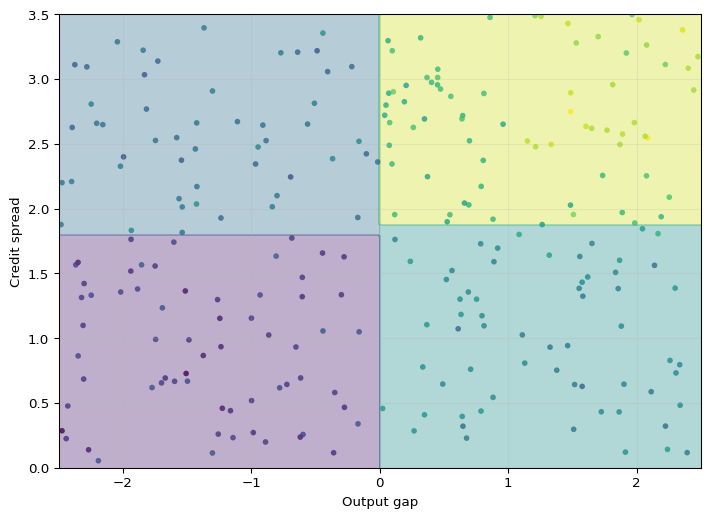
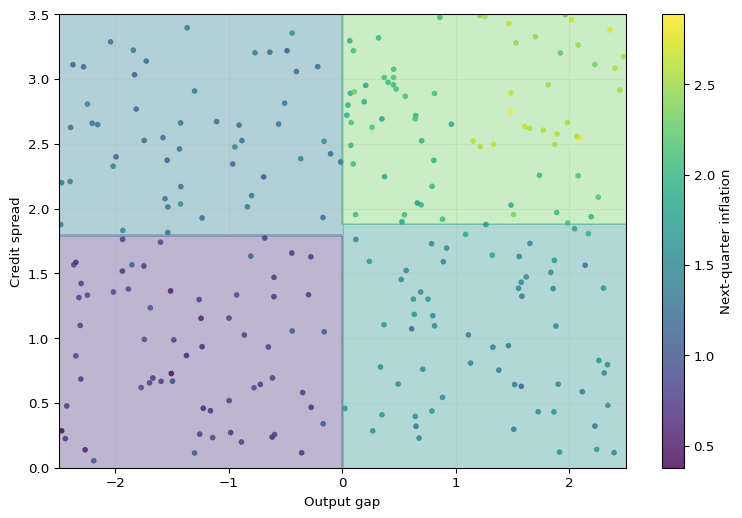
small rewording in decition trees

diff --git a/docs/decision_trees.html b/docs/decision_trees.html
@@ -606,14 +606,18 @@ Figure&nbsp;10.1: Training observations (gray points) and the fitted depth-2 reg
 <span id="cb2-18"><a href="#cb2-18" aria-hidden="true" tabindex="-1"></a>xx, yy <span class="op">=</span> np.meshgrid(grid_gap, grid_spread)</span>
 <span id="cb2-19"><a href="#cb2-19" aria-hidden="true" tabindex="-1"></a>zz <span class="op">=</span> tree2.predict(np.column_stack([xx.ravel(), yy.ravel()])).reshape(xx.shape)</span>
 <span id="cb2-20"><a href="#cb2-20" aria-hidden="true" tabindex="-1"></a></span>
-<span id="cb2-21"><a href="#cb2-21" aria-hidden="true" tabindex="-1"></a>fig, ax <span class="op">=</span> plt.subplots(figsize<span class="op">=</span>(<span class="fl">7.5</span>, <span class="fl">5.5</span>))</span>
-<span id="cb2-22"><a href="#cb2-22" aria-hidden="true" tabindex="-1"></a>ax.contourf(xx, yy, zz, levels<span class="op">=</span>np.linspace(zz.<span class="bu">min</span>(), zz.<span class="bu">max</span>(), <span class="dv">8</span>), cmap<span class="op">=</span><span class="st">"viridis"</span>, alpha<span class="op">=</span><span class="fl">0.35</span>)</span>
-<span id="cb2-23"><a href="#cb2-23" aria-hidden="true" tabindex="-1"></a>ax.scatter(gap, spread, c<span class="op">=</span>y, s<span class="op">=</span><span class="dv">18</span>, cmap<span class="op">=</span><span class="st">"viridis"</span>, edgecolor<span class="op">=</span><span class="st">"none"</span>, alpha<span class="op">=</span><span class="fl">0.8</span>)</span>
-<span id="cb2-24"><a href="#cb2-24" aria-hidden="true" tabindex="-1"></a>ax.set_xlabel(<span class="st">"Output gap"</span>)</span>
-<span id="cb2-25"><a href="#cb2-25" aria-hidden="true" tabindex="-1"></a>ax.set_ylabel(<span class="st">"Credit spread"</span>)</span>
-<span id="cb2-26"><a href="#cb2-26" aria-hidden="true" tabindex="-1"></a>ax.grid(<span class="va">True</span>, alpha<span class="op">=</span><span class="fl">0.2</span>)</span>
-<span id="cb2-27"><a href="#cb2-27" aria-hidden="true" tabindex="-1"></a>plt.tight_layout()</span>
-<span id="cb2-28"><a href="#cb2-28" aria-hidden="true" tabindex="-1"></a>plt.show()</span></code><button title="Copy to Clipboard" class="code-copy-button"><i class="bi"></i></button></pre></div>
+<span id="cb2-21"><a href="#cb2-21" aria-hidden="true" tabindex="-1"></a>fig, ax <span class="op">=</span> plt.subplots(figsize<span class="op">=</span>(<span class="fl">8.2</span>, <span class="fl">5.5</span>))</span>
+<span id="cb2-22"><a href="#cb2-22" aria-hidden="true" tabindex="-1"></a>vmin, vmax <span class="op">=</span> <span class="bu">min</span>(y.<span class="bu">min</span>(), zz.<span class="bu">min</span>()), <span class="bu">max</span>(y.<span class="bu">max</span>(), zz.<span class="bu">max</span>())</span>
+<span id="cb2-23"><a href="#cb2-23" aria-hidden="true" tabindex="-1"></a>ax.contourf(xx, yy, zz, levels<span class="op">=</span>np.linspace(vmin, vmax, <span class="dv">12</span>),</span>
+<span id="cb2-24"><a href="#cb2-24" aria-hidden="true" tabindex="-1"></a>            cmap<span class="op">=</span><span class="st">"viridis"</span>, alpha<span class="op">=</span><span class="fl">0.35</span>, vmin<span class="op">=</span>vmin, vmax<span class="op">=</span>vmax)</span>
+<span id="cb2-25"><a href="#cb2-25" aria-hidden="true" tabindex="-1"></a>pts <span class="op">=</span> ax.scatter(gap, spread, c<span class="op">=</span>y, s<span class="op">=</span><span class="dv">18</span>, cmap<span class="op">=</span><span class="st">"viridis"</span>,</span>
+<span id="cb2-26"><a href="#cb2-26" aria-hidden="true" tabindex="-1"></a>                 edgecolor<span class="op">=</span><span class="st">"none"</span>, alpha<span class="op">=</span><span class="fl">0.8</span>, vmin<span class="op">=</span>vmin, vmax<span class="op">=</span>vmax)</span>
+<span id="cb2-27"><a href="#cb2-27" aria-hidden="true" tabindex="-1"></a>fig.colorbar(pts, ax<span class="op">=</span>ax, label<span class="op">=</span><span class="st">"Next-quarter inflation"</span>)</span>
+<span id="cb2-28"><a href="#cb2-28" aria-hidden="true" tabindex="-1"></a>ax.set_xlabel(<span class="st">"Output gap"</span>)</span>
+<span id="cb2-29"><a href="#cb2-29" aria-hidden="true" tabindex="-1"></a>ax.set_ylabel(<span class="st">"Credit spread"</span>)</span>
+<span id="cb2-30"><a href="#cb2-30" aria-hidden="true" tabindex="-1"></a>ax.grid(<span class="va">True</span>, alpha<span class="op">=</span><span class="fl">0.2</span>)</span>
+<span id="cb2-31"><a href="#cb2-31" aria-hidden="true" tabindex="-1"></a>plt.tight_layout()</span>
+<span id="cb2-32"><a href="#cb2-32" aria-hidden="true" tabindex="-1"></a>plt.show()</span></code><button title="Copy to Clipboard" class="code-copy-button"><i class="bi"></i></button></pre></div>
 </details>
 <div class="cell-output cell-output-display">
 <div id="fig-tree-partition" class="quarto-float quarto-figure quarto-figure-center anchored">
@@ -622,7 +626,7 @@ Figure&nbsp;10.1: Training observations (gray points) and the fitted depth-2 reg
 <img src="decision_trees_files/figure-html/fig-tree-partition-output-1.png" class="img-fluid figure-img">
 </div>
 <figcaption class="quarto-float-caption-bottom quarto-float-caption quarto-float-fig" id="fig-tree-partition-caption-0ceaefa1-69ba-4598-a22c-09a6ac19f8ca">
-Figure&nbsp;10.2: A depth-2 regression tree over the output gap (horizontal axis) and credit spread (vertical axis). Background colors indicate fitted leaf values, point colors indicate observed responses, and the vertical and horizontal boundaries are the tree’s split thresholds.
+Figure&nbsp;10.2: A depth-2 regression tree over the output gap (horizontal axis) and credit spread (vertical axis), fit to simulated data. Shaded background regions are the four leaves, colored by their fitted value; dots are the training observations, colored by their observed next-quarter inflation. Both use the same color scale, shown in the colorbar, so a dot that matches its background is well fit by its leaf. The abrupt vertical and horizontal color changes are the tree’s split thresholds.
 </figcaption>
 </figure>
 </div>

diff --git a/TODO.md b/TODO.md
@@ -234,12 +234,12 @@ Verified clean (no action): bibliography (all 89 entries in `references-local.bi
 
 - [x] **[E/A]** :334-342 — cost-complexity objective has no optimization domain (subtrees $T\subseteq T_0$ by collapsing internal nodes) and no weakest-link/nested-sequence result (BFOS) — as written, ill-posed and infeasible. Two sentences + tie $\alpha$ tuning to the :346 warning.
 - [x] **[E/A]** :111 — recursion has no stopping rule (never terminates as described). State base termination (pure node / min size / no improving split), then pre-pruning tightens it.
-- [ ] **[S/A]** :304-317 — bias-variance display: $\varepsilon_0$ and bias target undefined; posit $Y_0=f(x_0)+\varepsilon_0$, independence, expectation over new draw + training sample.
+- [x] **[S/A]** :304-317 — bias-variance display: $\varepsilon_0$ and bias target undefined. *(Done 2026-08-11: the callout now posits $Y_0=f(x_0)+\varepsilon_0$ with $\mathbb{E}[\varepsilon_0]=0$, $\operatorname{Var}(\varepsilon_0)=\sigma^2$ and independence from the training sample, defines $f(x_0)$ as the true conditional mean and the bias relative to it, states that the expectation runs over both the new draw and the training sample, labels the three terms, and notes that independence is what kills the cross-term — the assumption in-sample evaluation violates.)*
 - [x] **[S/B]** :10 — "Regreesion" typo; monograph title is "Classification and Regression *Trees*". *(Fixed 2026-08-10.)*
 - [x] **[S/A]** :111 — "guarantees a local optimum" — no topology in which that's true; say myopically optimal given prior splits. *(Already fixed by an earlier pass — verified 2026-07-28: :111 now reads "myopically optimal given the splits already made" and states the termination rule. Stale entry, closed.)*
-- [ ] **[S/C]** :116,:158,:257 echo:false; :157 (and :115) captions not self-contained (fill/scatter colors, missing colorbar).
-- [ ] **[T/B]** — regressogram bridge (see global); :149,:190 "The figure shows…" → `@fig-` refs; Ex 10.1 hints P1/P4 restate the task.
-- [ ] **Exercises**: 2 (9 sub-parts), all arithmetic verified (stump SSE 5.1875; split SSEs 3.5/3.625/0.5; crossover α = 4.6875; entropies/Ginis; threshold 0.2). 10.2 P1–4 substitution-heavy, P4 a read-off — acceptable as scaffolding for P5, but consider tightening.
+- [x] **[S/C]** :116,:158,:257 echo:false; :157 (and :115) captions not self-contained (fill/scatter colors, missing colorbar). *(Closed 2026-08-11: the `echo: false` half was stale — all four figure chunks already use `echo: true`. The colorbar was real: `fig-tree-partition` drew leaves and observations on the same viridis map with no legend, so "background colors indicate fitted leaf values" was unreadable. Both layers now share an explicit `vmin`/`vmax` and a labeled colorbar, and the caption explains that a dot matching its background is well fit by its leaf. The `fig-regression-tree-step` caption was already self-contained.)*
+- [x] **[T/B]** — regressogram bridge (see global); :149,:190 "The figure shows…" → `@fig-` refs; Ex 10.1 hints P1/P4 restate the task. *(All three done 2026-08-11: regressogram paragraph added to the Econometric Interpretation callout; the remaining bare "The figure shows" converted to an `@fig-regression-tree-step` reference; and the Ex 10.1 hints for P1, P2 and P4 deleted — P1 restated the definition, P2 was a recipe, P4 gave away the extrapolation answer — leaving only the P3 cost-complexity scaffold.)*
+- [x] **Exercises**: 2 (9 sub-parts), all arithmetic verified. 10.2 P1–4 substitution-heavy, P4 a read-off. *(Tightened 2026-08-11: Ex 10.2 went from five parts to four — the read-off P4 folded into P3 — and the required natural logs are now supplied so the whole exercise is calculator-free. The cost-threshold part gained a real application: apply the $0.2$ threshold to the leaves of *both* candidate splits. Verified numerically that exactly one leaf flips, the $\hat p = 1/3$ leaf of the **rejected** split, since only leaves with $\hat p \in (0.2, 0.5]$ can change — a better lesson than the preferred split, where nothing moves.)*
 
 **Ch 10 external review applied 2026-08-10** (2 findings): the FRED-QD narrative was describing a tree that is not the one rendered — verified against `fig-dt-fredqd`, which splits first on **inflation** (9.57), then GDP growth / log VIX, with term spread only at depth 3 and **unemployment absent entirely**, while the prose claimed a term-spread root refined by unemployment and log VIX. Paragraph rewritten around the actual fit, keeping the Estrella–Mishkin citation where the term spread genuinely appears, and adding the observation that inflation is reused at two different thresholds (9.57 near the root, 11.02 further down) because splits are chosen conditionally on the region reached. Entropy at pure nodes now states the $0\log 0 = 0$ continuous-extension convention, without which the displayed formula is undefined. Also: RSS and SSE tied at first use, GDP expanded, and the two mechanical hints in Ex 10.1 (P1 restated the definition, P2 was a recipe) deleted, leaving the two that give real scaffolding.
 
@@ -252,10 +252,10 @@ Verified clean (no action): bibliography (all 89 entries in `references-local.bi
 - [x] **[S/A]** :202 — "approximately honest" uses the Wager–Athey term informally; say "approximately out-of-sample". *(Done 2026-08-11, with a parenthetical explaining that *honest* has a specific technical meaning — separating split-selection from leaf-value observations — that OOB averaging does not deliver.)*
 - [x] **[S/A-B]** :362 — conflates (i) iid resampling destroying dependence in training with (ii) OOB evaluation leakage (post-$t$ trees predicting date $t$); also mention block bootstrap/subsampling as a resampling-side remedy. *(Done 2026-08-11: the warning now separates the two explicitly — resampling-side damage, fixable by block bootstrap/subsampling, versus evaluation-side leakage from trees trained on post-$t$ data, which block resampling does **not** fix and which only time-ordered validation addresses.)*
 - [x] **[S/C]** :517-533,:652 — Ex 11.1 P2 hint hands over the full derivation; 11.2 P2 is a 30-second multiplication. *(Done 2026-08-11: the Ex 11.1 P2 hint is trimmed to the covariance value and a counting nudge; Ex 11.2 P1–2 merged; and both exercises gained a substantive part. New Ex 11.1 P5 derives $\mathbb{V}[\bar T_B]/\mathbb{V}[\bar T_\infty] = 1 + (1-\rho)/(\rho B)$ — $\sigma^2$ cancels — and asks for the $B$ achieving 5% excess at $\rho=0.2$ ($B\ge 80$) versus $\rho=0.05$ ($B\ge 380$), with the counterintuitive reading that decorrelating trees improves the destination but slows the journey. New Ex 11.2 P2 shows the OOB prediction's Monte Carlo variance exceeds the full forest's by exactly $e$, the reciprocal of the inclusion probability from P1, which is a resolution caveat when comparing similar forests. All values verified numerically.)*
-- [ ] **[S/C]** :130,:230 echo:false; fig-oob-convergence caption must say data are simulated iid (that's *why* OOB tracks test MSE there).
+- [x] **[S/C]** :130,:230 echo:false; fig-oob-convergence caption must say data are simulated iid. *(Closed 2026-08-11: the `echo: false` half was stale; the caption now states the data are simulated with independent observations, describes both curves, and explains that their close agreement *depends* on that independence — which is exactly what fails for dependent time-series data, with a pointer to the warning below.)*
 - [x] **[T/B]** :39,:111 — $L$ subsample size vs $L_b(x)$ leaf collision (rename $\ell$ or $s$); subagging uncited; permutation-importance off-support pathology sentence. *(Done 2026-08-11: subsample size renamed $s$ with the reason stated inline; subagging now cites @BuhlmannYu2002, verified against its Crossref record and added to the bibliography with DOI. The off-support permutation sentence was added 2026-08-10.)*
 - [x] **Exercises**: 2, all verified (1.872; 79.2%; $e^{-1}$; 184). Set below the difficulty bar overall; 11.2 P4 (real-time reasoning) is strong. *(Closed 2026-08-11: both exercises raised to the bar by the new derivation parts described above — 11.1 now has five parts and 11.2 four, each with a genuine derivation ahead of the interpretation.)*
-- [ ] Noted correct (keep): "forests cannot overfit" folklore handled properly at :296 ($B$ = Monte Carlo error; complexity in leaf size/depth).
+- [x] Noted correct (keep): "forests cannot overfit" folklore handled properly at :296 ($B$ = Monte Carlo error; complexity in leaf size/depth). *(Verification note, not a task — left as a standing check.)*
 
 **Ch 11 external review applied 2026-08-10** (3 findings): the equicorrelated-tree variance result now carries $0 \le \rho \le 1$ in both the main callout and Exercise 11.1, with the reason stated — a common correlation is admissible only if $\rho \ge -1/(B-1)$, so no fixed negative value survives $B \to \infty$, and without $\rho \ge 0$ the stated limit $\sigma^2\rho$ would be a negative variance. The FRED-QD interpretation was claiming more than a test-period plot can show: "follows the training data too closely" cannot be read off out-of-sample forecasts, and a single realized path cannot identify bias. Rewritten to state what the figure does establish (the single tree is erratic, the forest visibly smoother — variance reduction made concrete), what it does not (overfitting is inferred, not shown; bias is an average over repeated samples), and what it shows unambiguously: both models miss the $-33$/$+30$ pandemic quarters, the flatter forest more so. Permutation importance gained the dependence caveat the rest of the chapter earns — row-wise permutation destroys serial structure (block permutation isolates the signal loss) and, under correlated predictors, evaluates the forest at macroeconomic states that never occurred. Also: the mechanical "use linearity of expectation" hint deleted.
 
